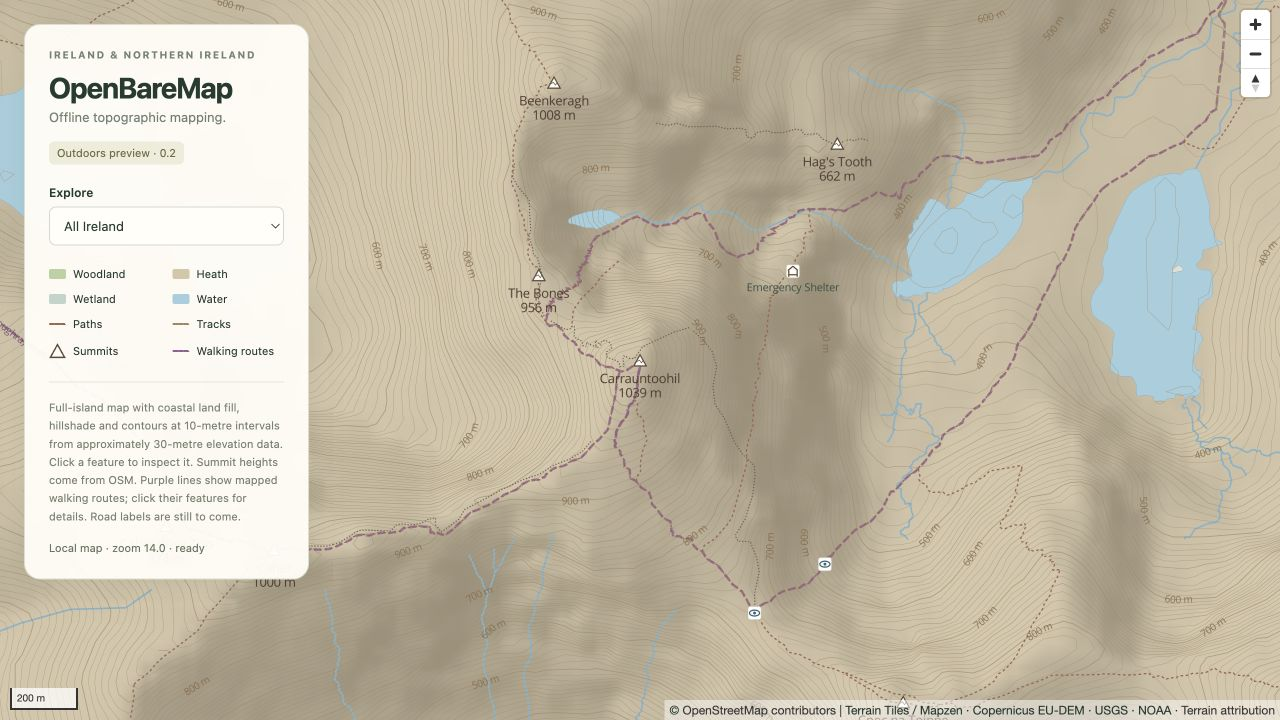
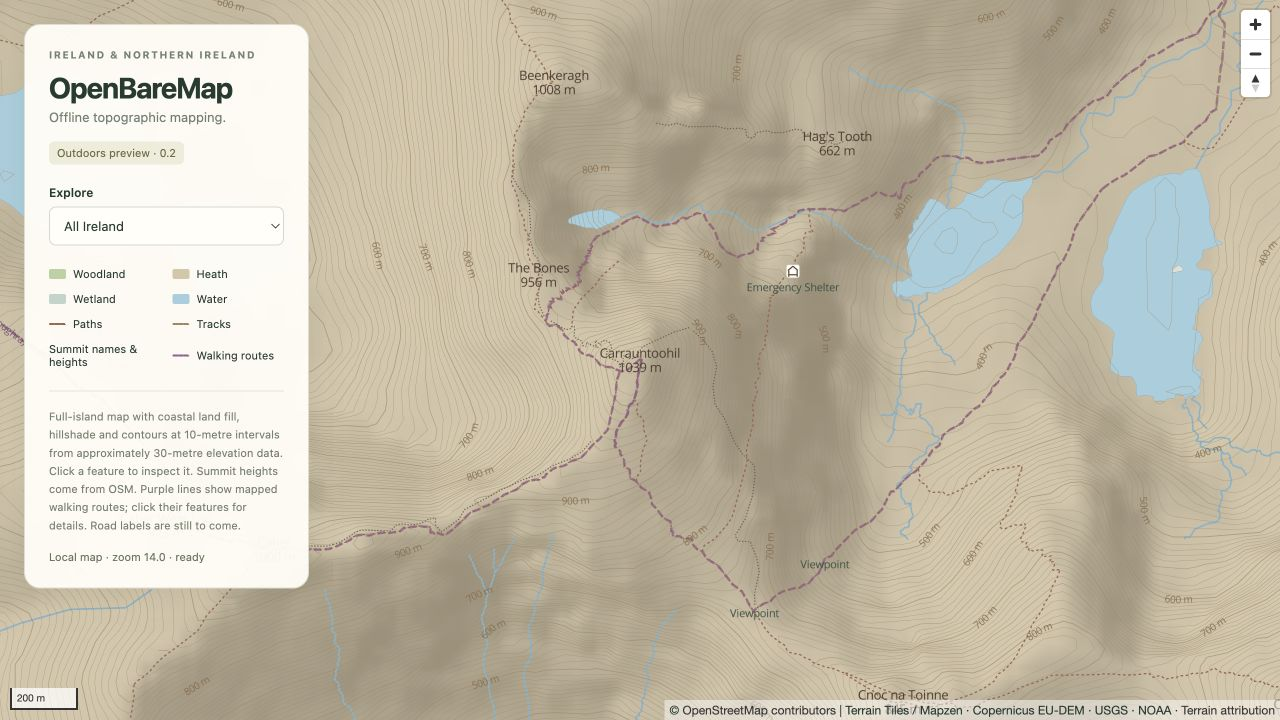
Use text-only labels for summits and viewpoints

diff --git a/viewer/index.html b/viewer/index.html
@@ -5,6 +5,6 @@
 <aside><div class="eyebrow">IRELAND & NORTHERN IRELAND</div><h1>OpenBareMap</h1><p class="subtitle">Offline topographic mapping.</p>
 <div class="badge">Outdoors preview · 0.2</div>
 <label for="location">Explore</label><select id="location"><option value="island">All Ireland</option><option value="wicklow">Wicklow Mountains</option><option value="kerry">Killarney</option><option value="donegal">Donegal</option><option value="belfast">Belfast</option><option value="dublin">Dublin</option><option value="aran">Aran Islands</option></select>
-<div class="legend"><span><i style="background:#b8d1a1"></i>Woodland</span><span><i style="background:#d5c6a7"></i>Heath</span><span><i style="background:#c1d5ca"></i>Wetland</span><span><i style="background:#a4cede"></i>Water</span><span><i class="path"></i>Paths</span><span><i class="track"></i>Tracks</span><span><img src="/sprites/legend-peak.svg" alt="">Summits</span><span><i class="route"></i>Walking routes</span></div>
+<div class="legend"><span><i style="background:#b8d1a1"></i>Woodland</span><span><i style="background:#d5c6a7"></i>Heath</span><span><i style="background:#c1d5ca"></i>Wetland</span><span><i style="background:#a4cede"></i>Water</span><span><i class="path"></i>Paths</span><span><i class="track"></i>Tracks</span><span>Summit names & heights</span><span><i class="route"></i>Walking routes</span></div>
 <p class="note">Full-island map with coastal land fill, hillshade and contours at 10-metre intervals from approximately 30-metre elevation data. Click a feature to inspect it. Summit heights come from OSM. Purple lines show mapped walking routes; click their features for details. Road labels are still to come.</p><output id="status" aria-live="polite">Loading local map…</output></aside>
 <script src="/vendor/maplibre-gl.js"></script><script src="/viewer.js"></script></body></html>

diff --git a/README.md b/README.md
@@ -104,3 +104,5 @@ The `natural_line` layer preserves cliff lines. Their current dotted presentatio
 Original outdoor symbols are generated from code without system fonts. To rebuild the 1x and 2x sprite atlases, install `assets/requirements.txt` in an isolated Python environment and run `python3 scripts/build_sprites.py`. The generator, Pillow version and output checksums are recorded in `assets/sprites.lock.json`. Lua processing fixtures run as part of the tests when a `lua` executable is installed; a missing Lua runtime is reported as a skipped test.
 
 The reference style uses plain labels without white halos and walking routes without white outer casings.
+
+Summits and viewpoints use text labels only in the reference style. Summit triangles and viewpoint-eye symbols remain unused in the sprite asset library. Other amenity and saddle symbols remain enabled.
